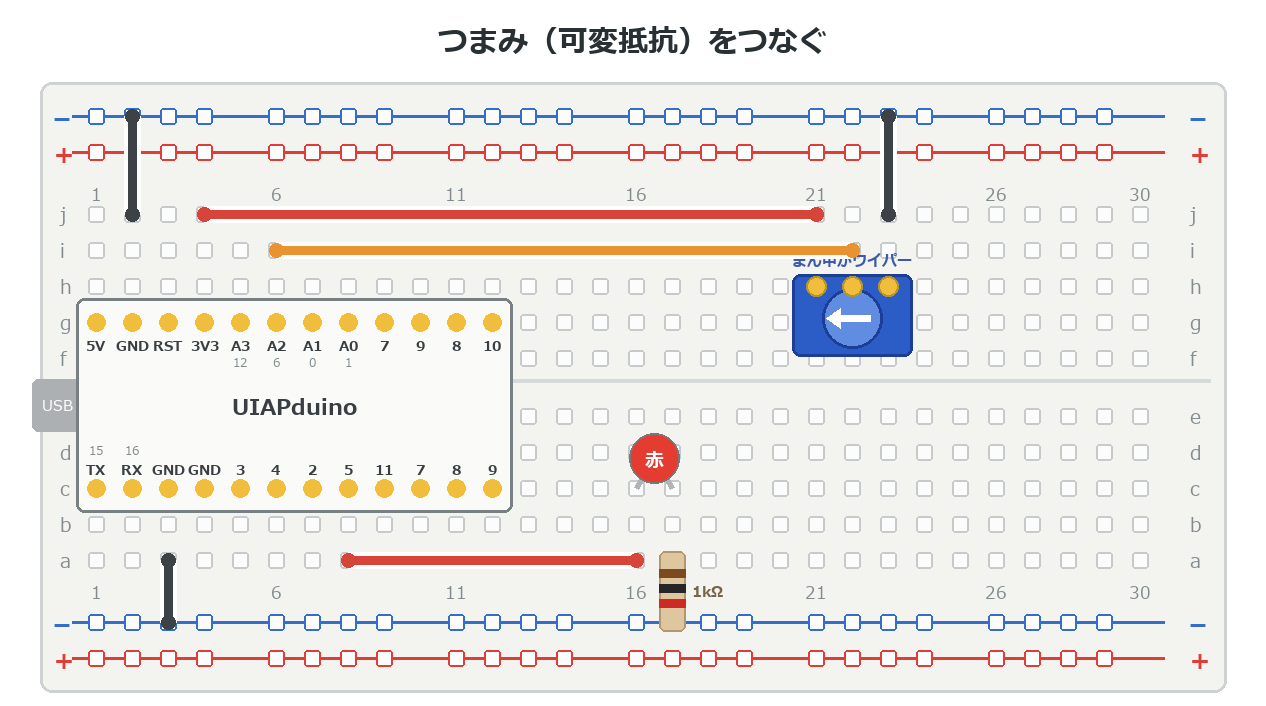
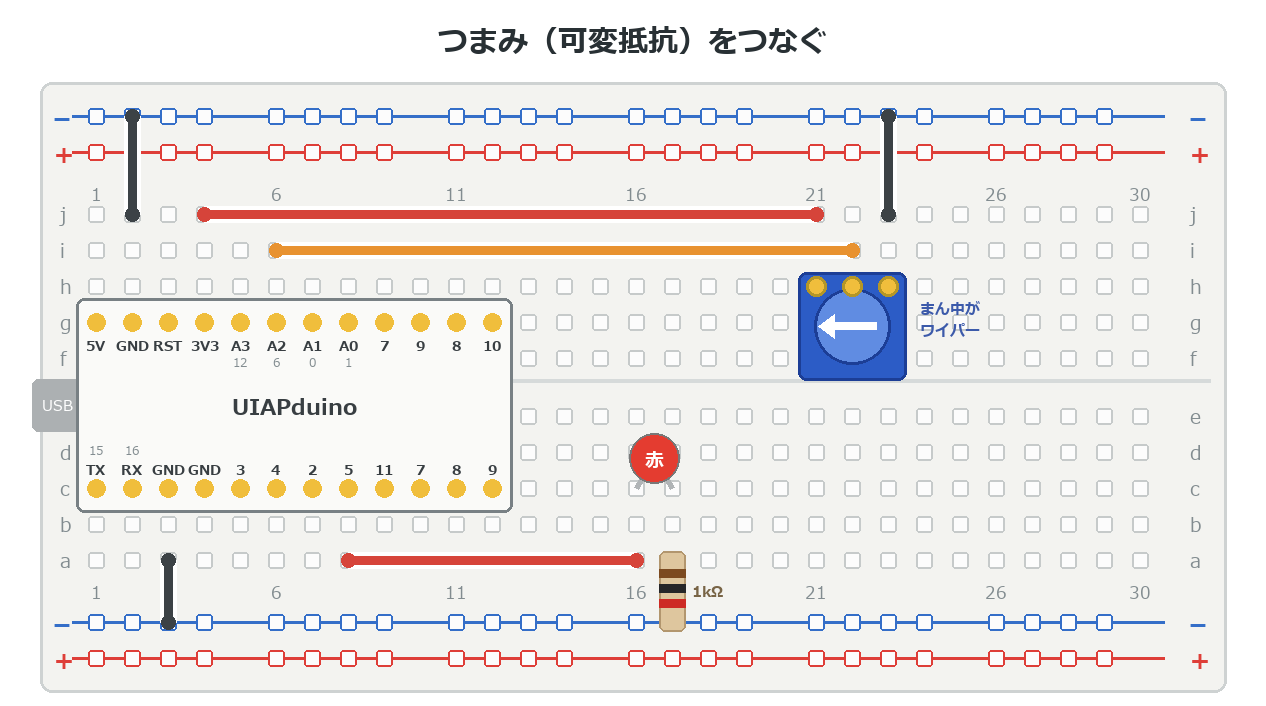
b4 の可変抵抗を実物の寸法（正方形・3行ぶん）に
上から見ると正方形で、h行にさすと本体が溝のあたりまで届く、
という実物の大きさに合わせた。以前は横長で小さく、
3列ぶんの端子と本体の関係が実物とちがっていた。

- 本体を 3行ぶん（＝3列ぶん）の正方形にした
- 端子の行から 溝がわへ のびる形にした
- 端子は本体の上にのせて描き、どの穴を使うか見えるようにした
- 「まん中がワイパー」のラベルを本体の右へ移し、配線と重ならないようにした

Changed region(s): [[0.6161, 0.3428, 0.7701, 0.5609]]

diff --git a/tools/bb.py b/tools/bb.py
@@ -190,20 +190,25 @@ def tact(d, col_a, col_b):
     center(d, mx, yd + 40, "d行どうしも いつもつながっている", bold(15), (120, 128, 132))
 
 def vr(d, col, row):
-    """可変抵抗（つまみ）。端子は3本、同じ行のとなりあう3列。まん中がワイパー。"""
-    x1, x3, y = cx(col), cx(col + 2), cy(row)
-    d.rounded_rectangle([x1 - 24, y - 12, x3 + 24, y + 70], radius=8,
+    """可変抵抗（つまみ）。上から見ると正方形で、3行ぶんの大きさ。
+    端子は3本、同じ行のとなりあう3列。まん中がワイパー。
+    本体は端子の行から、溝がわへ 3行ぶん のびる。"""
+    y, cxm = cy(row), cx(col + 1)
+    S = PITCH * 3                       # 3行ぶん＝正方形
+    x1, y1 = cxm - S / 2, y - 14
+    d.rounded_rectangle([x1, y1, x1 + S, y1 + S], radius=8,
                         fill=(44, 92, 198), outline=(28, 62, 150), width=3)
-    mx, my = (x1 + x3) / 2, y + 32
-    d.ellipse([mx - 30, my - 30, mx + 30, my + 30], fill=(96, 140, 226),
+    mx, my = cxm, y1 + S / 2
+    d.ellipse([mx - 38, my - 38, mx + 38, my + 38], fill=(96, 140, 226),
               outline=(28, 62, 150), width=3)
-    d.line([mx + 18, my, mx - 18, my], fill=WHITE, width=7)      # つまみの向き
-    d.polygon([(mx - 26, my), (mx - 12, my - 10), (mx - 12, my + 10)], fill=WHITE)
-    for i in range(3):
+    d.line([mx + 24, my, mx - 24, my], fill=WHITE, width=8)
+    d.polygon([(mx - 34, my), (mx - 18, my - 12), (mx - 18, my + 12)], fill=WHITE)
+    for i in range(3):                  # 端子は本体の上にのせて見えるように
         x = cx(col + i)
         d.ellipse([x - 10, y - 10, x + 10, y + 10], fill=GOLD,
-                  outline=(180, 150, 40), width=2)
-    center(d, cx(col + 1), y - 36, "まん中がワイパー", bold(15), (60, 90, 170))
+                  outline=(180, 150, 40), width=3)
+    d.text((x1 + S + 14, my - 28), "まん中が", font=bold(15), fill=(60, 90, 170))
+    d.text((x1 + S + 14, my - 6), "ワイパー", font=bold(15), fill=(60, 90, 170))
 
 def buzzer(d, x, y, r=92):
     """圧電ブザー。赤・黒のリード線がついている。（ボードの外に置く）"""
